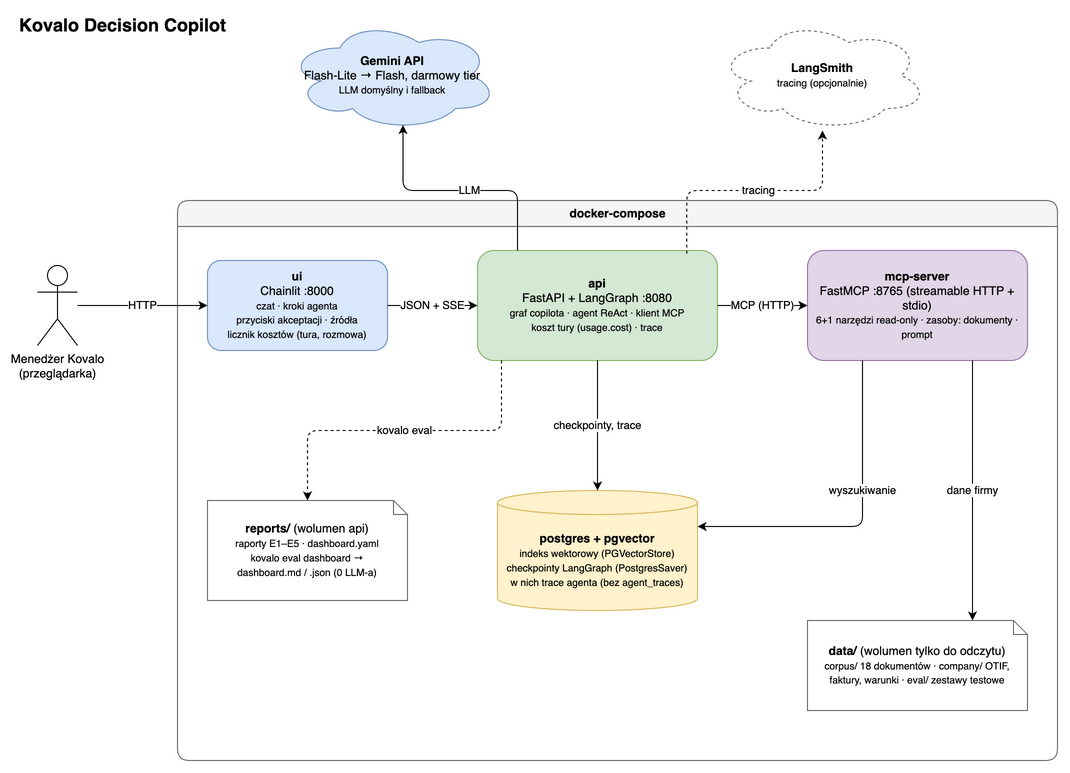
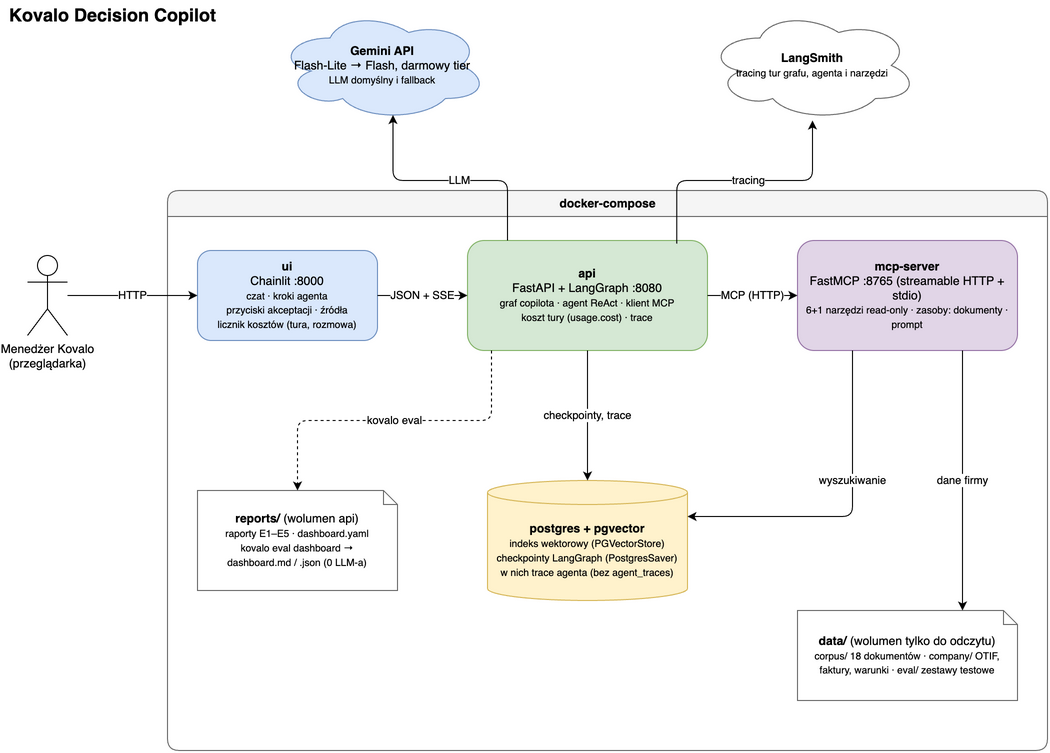
F6: koszt tury w USD modelu, LangSmith wymagany, prostszy scenariusz i diagram
- Panel „Koszt tury”: tylko cena użytego modelu jako ułamek dolara, bez darmowego tieru i cennika kursu
- LangSmith jako stały element (.env.example, README, docs, diagram)
- README: ogólna sekcja „Co potrafi”; scenariusz demo: prompt → ścieżka grafu
- Diagram: tylko strony 1–3

diff --git a/tests/unit/ui/test_render.py b/tests/unit/ui/test_render.py
@@ -379,8 +379,8 @@ def total_after(*usages):
 
 
 def test_render_usage_details():
-    """Przykład z kontraktu 6.4 jako lista do panelu „Koszt tury”: polskie liczby, odmiana,
-    centy z dwoma miejscami, suma rozmowy."""
+    """Lista do panelu „Koszt tury”: polskie liczby, odmiana, koszt faktycznie użytego modelu
+    jako ułamek dolara (bez darmowego tieru i cennika kursu), suma rozmowy."""
     from kovalo.ui.render import render_usage
 
     first = usage_view(
@@ -392,9 +392,8 @@ def test_render_usage_details():
     assert details == (
         "- **Tura:** 5 wywołań (gemini-3.5-flash-lite)\n"
         "- **Tokeny:** 9120 wejścia, 612 wyjścia\n"
-        "- **Koszt tury:** 0 USD w darmowym tierze; po cenach płatnych 0,43 centa (Gemini) / "
-        "0,96 centa (cennik kursu)\n"
-        "- **Rozmowa:** 2 tury, 0,71 / 1,52 centa"
+        "- **Koszt tury:** 0,004266 $\n"
+        "- **Rozmowa:** 2 tury, 0,0071 $"
     )
 
 
@@ -457,7 +456,15 @@ def test_render_usage_thousands_and_tiny_cost():
     usage = usage_view(input_tokens=1234567, output_tokens=89, ours=1e-8, reference=2e-8)
     text = squash(render_usage(usage, total_after(usage)))
     assert "1 234 567 wejścia" in text and "89 wyjścia" in text
-    assert "< 0,01 centa (Gemini)" in text and "< 0,01 centa (cennik kursu)" in text
+    assert "**Koszt tury:** < 0,000001 $" in text and "**Rozmowa:** 1 tura, < 0,000001 $" in text
+
+
+def test_render_usage_dollar_fraction_format():
+    from kovalo.ui.render import render_usage
+
+    for ours, shown in ((0.0034, "0,0034 $"), (0.12, "0,12 $"), (1.5, "1,5 $"), (0.0, "0 $")):
+        usage = usage_view(ours=ours)
+        assert f"**Koszt tury:** {shown}" in squash(render_usage(usage, total_after(usage)))
 
 
 def test_render_usage_unpriced_and_missing_cost():
@@ -470,14 +477,14 @@ def test_render_usage_unpriced_and_missing_cost():
     assert total.partial is True
     text = squash(render_usage(unpriced, total))
     assert "brak ceny dla model-x" in text
-    assert "0,96 centa (cennik kursu)" in text, "cennik kursu zawsze znany"
+    assert "cennik kursu" not in text and "darmow" not in text
     assert "(część tur bez ceny)" in text
 
     no_cost = usage_view(cost=False)
     total = add_usage(total_after(), no_cost)
     text = squash(render_usage(no_cost, total))
     assert text.startswith("- **Tura:** 5 wywołań")
-    assert "Koszt" not in text and "centa" not in text and "USD" not in text
+    assert "Koszt" not in text and "$" not in text
 
 
 def test_add_usage_accumulates():

diff --git a/src/kovalo/ui/render.py b/src/kovalo/ui/render.py
@@ -336,16 +336,18 @@ def _plural(count: int, one: str, few: str, many: str) -> str:
     return many
 
 
-_CENT_STEP = Decimal("0.01")
+_USD_STEP = Decimal("0.000001")
 
 
-def _cents(usd: float) -> str:
-    """USD → centy z dwoma miejscami po przecinku; dodatnia kwota poniżej 0,005 centa → „< 0,01”."""
-    cents = Decimal(str(usd)) * 100
-    rounded = cents.quantize(_CENT_STEP, rounding=ROUND_HALF_UP)
-    if cents > 0 and rounded == 0:
-        return "< 0,01"
-    return f"{rounded:.2f}".replace(".", ",")
+def _usd(usd: float) -> str:
+    """USD jako ułamek dolara: do 6 miejsc po przecinku, bez zer na końcu („0,003412 $”);
+    dodatnia kwota poniżej 0,0000005 $ → „< 0,000001 $”."""
+    value = Decimal(str(usd))
+    rounded = value.quantize(_USD_STEP, rounding=ROUND_HALF_UP)
+    if value > 0 and rounded == 0:
+        return "< 0,000001 $"
+    text = f"{rounded:f}".rstrip("0").rstrip(".")
+    return f"{text.replace('.', ',')} $"
 
 
 def _models(usage: UsageView) -> str:
@@ -371,19 +373,14 @@ def render_usage(usage: UsageView | None, total: UsageTotal) -> str | None:
         f"{number(usage.output_tokens)} wyjścia",
     ]
     cost = usage.cost
-    if cost is not None:
-        reference = f"{_cents(cost.reference_usd)} centa (cennik kursu)"
+    if cost is not None:  # tylko cena faktycznie użytego modelu, bez cennika kursu
         if cost.ours_usd is None:
             missing = ", ".join(cost.unpriced_models) or "nieznany model"
-            paid = f"po cenach płatnych: brak ceny dla {missing} / {reference}"
+            lines.append(f"- **Koszt tury:** brak ceny dla {missing}")
         else:
-            paid = f"po cenach płatnych {_cents(cost.ours_usd)} centa (Gemini) / {reference}"
-        lines.append(f"- **Koszt tury:** 0 USD w darmowym tierze; {paid}")
+            lines.append(f"- **Koszt tury:** {_usd(cost.ours_usd)}")
         turns = f"{number(total.turns)} {_plural(total.turns, 'tura', 'tury', 'tur')}"
-        conversation = (
-            f"- **Rozmowa:** {turns}, {_cents(total.ours_usd)} / "
-            f"{_cents(total.reference_usd)} centa"
-        )
+        conversation = f"- **Rozmowa:** {turns}, {_usd(total.ours_usd)}"
         if total.partial:
             conversation += " (część tur bez ceny)"
         lines.append(conversation)

diff --git a/tests/unit/ui/test_app.py b/tests/unit/ui/test_app.py
@@ -421,9 +421,9 @@ async def test_cost_panel_on_last_message(fake_cl, mock_stream):
     text1 = " ".join(cost1.content.split())
     assert text1.startswith("- **Tura:** 5 wywołań (gemini-3.5-flash-lite)")
     assert "9120 wejścia" in text1
-    assert "0,43 centa (Gemini) / 0,96 centa (cennik kursu)" in text1
+    assert "**Koszt tury:** 0,004266 $" in text1 and "cennik kursu" not in text1
     assert "**Rozmowa:** 1 tura" in text1
-    assert "**Rozmowa:** 2 tury, 0,85 / 1,92 centa" in " ".join(cost2.content.split())
+    assert "**Rozmowa:** 2 tury, 0,008532 $" in " ".join(cost2.content.split())
 
     total = fake_cl.session["usage_total"]
     assert (total.turns, total.calls, total.input_tokens, total.output_tokens) == (

diff --git a/docs/demo/scenario.md b/docs/demo/scenario.md
@@ -1,108 +1,47 @@
-# Scenariusz demo: pokaz aplikacji na żywo
+# Scenariusz demo
 
-Scenariusz pokazu aplikacji na żywo (około 5–7 minut, bez slajdów i bez nagrania w zapasie: decyzja użytkownika z 2026-11-07). Rdzeń to rozmowa **C1** z ewaluacji E5 ([data/eval/mini_project_5_conversations.yaml](../../data/eval/mini_project_5_conversations.yaml)): cztery tury, które w przebiegu na żywo z 2026-11-04 przeszły w 100% (ścieżka, status, pauzy, fakty). Kontrakt: [contracts/f6.md §10](../contracts/f6.md).
+Prompty do wklejenia w czat (http://localhost:8000) i ścieżka, którą każdy uruchamia w grafie copilota ([diagram, strona 2](../architecture/kovalo-architecture-2-graph.png)). Wszystkie pochodzą z rozmów ewaluacji E5 ([data/eval/mini_project_5_conversations.yaml](../../data/eval/mini_project_5_conversations.yaml)). Akceptacja jest symulowana: przyciski zastępują osoby zatwierdzające, nic nie trafia do CRM-u.
 
-Akceptacja jest symulowana: przyciski Zatwierdź / Odrzuć / Anuluj zastępują osoby zatwierdzające, nic nie trafia do CRM-u.
-
-## 1. Przygotowanie (dzień wcześniej i 10 minut przed)
-
-**Dzień wcześniej (próba):**
-1. `make up`, potem `make ingest` (jeśli baza była czyszczona). `curl http://localhost:8080/health` ma zwrócić `"status": "ok"`.
-2. Jedno przejście scenariusza z części 2 (około 10 wywołań Gemini). Sprawdź liczby z tabeli w części 3.
-
-**10 minut przed pokazem:**
-1. Docker Desktop działa, `make up` (przy aktualnych obrazach budowanie bierze warstwy z cache), `curl http://localhost:8080/health` → `ok`.
-2. Przeglądarka: okno około 1280×800, zoom 100%, jedna karta z http://localhost:8000, bez paska zakładek (macOS Chrome: Cmd+Shift+B), tryb gościa albo osobny profil.
-3. Nowa rozmowa: odśwież stronę (każde odświeżenie to nowy wątek i zerowa suma kosztu).
-4. W drugiej karcie (do pokazania na końcu): [reports/dashboard.md](../../reports/dashboard.md) na GitHubie albo w podglądzie Markdownu w edytorze (działa bez sieci).
-5. Zapas: w trzeciej karcie rozmowa z porannej próby (tury 1–2 z części 2, około 6 wywołań), **nieodświeżana**. Przy błędzie limitu albo sieci pokazujesz w niej kroki „(przez MCP)”, ścieżkę dowodową i linię kosztu.
-
-**Prywatność (sprawdź przed udostępnieniem ekranu):**
-- [ ] żadnego okna z `.env`, terminala z `env`/`printenv` ani AI Studio z kluczem w kadrze,
-- [ ] pasek zakładek i inne karty ukryte, powiadomienia wyciszone (Centrum sterowania → Skupienie),
-- [ ] udostępniasz tylko okno przeglądarki, nie cały ekran.
-
-## 2. Przebieg
-
-Każdą wiadomość wklejaj w pole czatu w całości i wysyłaj Enterem. Czekaj na koniec tury (zniknięcie wskaźnika pracy) przed następną wiadomością.
-
-### Tura 1: kara umowna przez MCP (około 1,5 min na żywo)
+## answer_documents
 
 ```
 Ile wynosi kara, którą Mleczna Dolina jest winna Kovalo za lipiec 2026 r.? Podaj kwotę w PLN.
 ```
 
-Co widać i co pokazać kursorem:
-- Kroki agenta pojawiają się na żywo, każdy z dopiskiem „(przez MCP)”: warunki umowy (`get_contract_terms`), OTIF (`get_supplier_otif`), wartość faktur (`get_invoice_value`), kalkulator kary (`calculate_otif_penalty`). Rozwiń jeden krok: argumenty (`SUP-114`, `2026-07`) i wynik z linią „Wywołanie MCP: …”.
-- Odpowiedź: **7296,00 PLN** (model może zapisać „7 296,00 PLN”; obie formy są poprawne).
-- Kliknij „Szczegóły: Ścieżka dowodowa”: panel boczny pokazuje, z którego narzędzia pochodzi każda liczba (OTIF 94,6% wobec celu 97%, 2 pełne punkty, 4% × 182 400,00 PLN).
-- Pod odpowiedzią linia kursywą: „Tura: N wywołań (gemini-3.5-flash-lite), … tokenów wejścia, … wyjścia. Koszt: 0 USD w darmowym tierze; po cenach płatnych … centa (Gemini) / … centa (cennik kursu). Rozmowa: 1 tura, …”.
+understand → answer_documents (agent, narzędzia przez MCP) → koniec tury. Odpowiedź: 7296,00 PLN.
 
-Co powiedzieć: liczby liczy kod (narzędzia i kalkulator kary), nie model; model tylko wybiera narzędzia i składa odpowiedź. Narzędzia działają w osobnym kontenerze `mcp-server`, ten sam serwer działa w Claude Code i MCP Inspector.
-
-### Tura 2: wniosek o rabat i pauza na akceptację (około 1 min)
-
-```
-Teraz prześlij do akceptacji rabat 14% na wodę niegazowaną dla Biedronki z marżą po rabacie 10%.
-```
-
-Co widać:
-- Odpowiedź bez kroków agenta: „Wniosek: …”, „Wymagana akceptacja: Dyrektor handlowy (symulacja)” i uzasadnienie z polityki `course-v1` (14% mieści się w przedziale > 12–20%, marża 10% nie dodaje CFO, bo próg to 9%).
-- Pauza z przyciskami **Zatwierdź**, **Odrzuć**, **Anuluj**; pod nią linia kosztu (1 wywołanie: rozpoznanie wiadomości).
-- Kliknij **Zatwierdź** → „Wniosek zatwierdzony (wersja 1): Dyrektor handlowy. To symulacja: nic nie trafia do CRM-u.” Ta tura nie ma linii kosztu (wznowienie pauzy nie wywołuje LLM-a).
-
-Co powiedzieć: kto zatwierdza, decyduje kod polityki, nie prompt; workflow LangGraph zatrzymuje się w `interrupt()`, a pauza jest w checkpoincie Postgresa, więc przetrwa restart `api`.
-
-### Tura 3: pytanie o dane w trakcie sprawy (około 1 min)
-
-```
-A jaki był OTIF dostawcy Aqua Kryształ w lipcu 2026 r.?
-```
-
-Co widać: jeden krok `get_supplier_otif (przez MCP)` (`SUP-207`), odpowiedź **95,1%**, ścieżka dowodowa, linia kosztu. Zatwierdzony wniosek się nie zmienia.
-
-### Tura 4: ponowne przesłanie bez zmian (około 30 s)
-
-```
-Prześlij jeszcze raz ten sam rabat dla Biedronki.
-```
-
-Co widać: „Już zatwierdzone (wersja 1), akceptacja: Dyrektor handlowy. Wniosek się nie zmienił, więc nie trzeba go akceptować ponownie. …”, **bez nowej pauzy**. Linia kosztu z sumą „Rozmowa: 4 tury, … / … centa” (kliknięcie Zatwierdź nie jest liczone jako tura z LLM-em).
-
-### Opcjonalnie, jeśli zostaje czas
-
-Pytanie o politykę bez składania wniosku (1 wywołanie, rozmowa C2 z E5):
+## answer_policy
 
 ```
 Kto musi zatwierdzić rabat 22% dla naszego klienta strategicznego Carrefour Express przy marży po rabacie 7%?
 ```
 
-Oczekiwane: „Rabat 22% (klient strategiczny, marża po rabacie 7%) zatwierdza: Dyrektor handlowy i CFO.” z uzasadnieniem i zdaniem „To tylko informacja: żaden wniosek nie został złożony.”
+understand → answer_policy → koniec tury. Odpowiedź: Dyrektor handlowy i CFO, bez składania wniosku.
 
-Na koniec (0 wywołań): karta z [reports/dashboard.md](../../reports/dashboard.md): wyniki E1–E5 wobec kursu, koszty przebiegów i zużycie darmowego limitu.
+## reply_other
 
-## 3. Oczekiwane wyniki i budżet
+```
+Dzięki!
+```
 
-| Tura | Oczekiwany wynik | Pauza | Wywołania Gemini (szacunek) |
-|---|---|---|---|
-| 1 | 7296,00 PLN; 4 kroki „(przez MCP)” | brak | ≈ 5 (rozpoznanie 1 + agent ≈ 4) |
-| 2 | Dyrektor handlowy; po Zatwierdź: zatwierdzony (wersja 1) | Dyrektor handlowy | 1 (wznowienie: 0) |
-| 3 | 95,1% | brak | ≈ 3 (rozpoznanie 1 + agent ≈ 2) |
-| 4 | „Już zatwierdzone”, bez pauzy | brak | 1 |
-| opcjonalnie | Dyrektor handlowy i CFO | brak | 1 |
-| **Razem** | | | **≈ 10** (z pytaniem opcjonalnym ≈ 11) |
+understand → reply_other → koniec tury. Krótka odpowiedź z listą tego, co copilot potrafi.
 
-Budżet w dniu pokazu: poranna próba ≈ 6 (karta zapasowa) + pokaz ≈ 10–11, razem około 17 wywołań, czyli w limicie Flash-Lite. Model główny `gemini-3.5-flash-lite` (w F4–F5 około 50 wywołań dziennie bez błędów 429); fallback `gemini-3.6-flash` ma tylko około 20 zapytań dziennie, więc nie rób w dniu pokazu dodatkowych prób.
+## update_request → clarify → decide → approve
 
-Dokładne liczby tokenów i centów w linii kosztu zależą od długości odpowiedzi modelu i nie są stałe; sprawdź tylko, że linia jest, że suma rośnie z każdą turą z LLM-em i że po kliknięciu Zatwierdź jej nie ma. Jeśli w linii pojawi się drugi model (`gemini-3.6-flash`), tura poszła przez fallback: to też jest poprawne.
+```
+Prześlij do akceptacji rabat 8% na chipsy dla Delikatesów Pod Lipami.
+```
 
-## 4. Plan B
+1. understand → update_request: wniosek bez marży, więc clarify (pauza z pytaniem o marżę po rabacie).
+2. Wpisz w czat `7` → decide: wymagana akceptacja Regionalnego kierownika sprzedaży i CFO.
+3. approve: pauza na pierwszą rolę → **Zatwierdź**, potem pauza na drugą rolę → **Zatwierdź**. Status: zatwierdzony.
 
-| Sytuacja | Co zrobić |
-|---|---|
-| Pojedynczy błąd 429 albo przeciążenie modelu głównego | Nic nie rób: aplikacja sama przełącza się na model zapasowy `gemini-3.6-flash` (w linii kosztu pojawi się drugi model). To dobry moment, żeby pokazać fallback. |
-| Odpowiedź „Nie udało się odpowiedzieć na to pytanie…” albo długie czekanie (429 na obu modelach, limit dzienny) | Odczekaj około minuty i wyślij wiadomość jeszcze raz, ale tylko raz (każda próba zużywa limit). Jeśli znowu błąd: przejdź do karty zapasowej z porannej rozmowy i omów kroki, ścieżkę dowodową i linię kosztu na niej. Tury 2 i 4 (wniosek, „Już zatwierdzone”) wymagają tylko jednego wywołania, więc zwykle przechodzą nawet przy prawie wyczerpanym limicie. |
-| Brak sieci | Karta zapasowa (już wyrenderowana rozmowa), dashboard w podglądzie Markdownu i README z lokalnego klona. Kliknięcie Zatwierdź na pauzie nie wywołuje LLM-a, więc wznowienie pauzy działa bez sieci. Ścieżkę dowodową P1 z zapisanego przebiegu E4 wypisuje też `uv run kovalo show-trace P1` (0 wywołań; wymaga lokalnych JSON-ów raportów w `reports/mp4/`). |
-| `/health` = `degraded` (brak klucza albo indeksu) | Brak klucza: uzupełnij `GOOGLE_API_KEY` w `.env`, potem `make down` i `make up`. Brak indeksu: `make ingest`. |
-| Odpowiedź z inną kwotą niż 7296,00 PLN lub 95,1% | Rozwiń ścieżkę dowodową i kroki: liczby z narzędzi są deterministyczne, a różnica byłaby w składaniu odpowiedzi; zgłoś po pokazie, nie poprawiaj na żywo. |
-| „Poprzednia odpowiedź nie została dokończona…” | Po restarcie `api` w trakcie tury: serwis zamknął przerwaną turę, wyślij wiadomość jeszcze raz. |
+## update_request → decide (już zatwierdzone)
+
+W tej samej rozmowie, po zatwierdzeniu:
+
+```
+Prześlij jeszcze raz ten sam rabat dla Delikatesów Pod Lipami.
+```
+
+understand → update_request → decide: wszystkie role już zatwierdziły, więc „Już zatwierdzone”, bez nowej pauzy.

diff --git a/docs/03-architecture.md b/docs/03-architecture.md
@@ -1,6 +1,6 @@
 # 03. Architektura
 
-Diagramy: [`architecture/kovalo-architecture.drawio`](architecture/kovalo-architecture.drawio). Plik ma osiem stron: kontenery, graf copilota, indeksowanie i wyszukiwanie, odpowiedź ze źródłami i ewaluacja E2, workflow F3 (API, UI, checkpointy, E3), agent F4 (narzędzia, trace, SSE, E4), MCP i końcowy asystent F5 (serwer, klient, E5), koszty, dashboard i przerwana tura F6. Eksporty PNG (z osadzonym XML-em, edytowalne w draw.io) leżą obok pliku.
+Diagramy: [`architecture/kovalo-architecture.drawio`](architecture/kovalo-architecture.drawio). Plik ma trzy strony: kontenery, graf copilota, indeksowanie i wyszukiwanie. Eksporty PNG (z osadzonym XML-em, edytowalne w draw.io) leżą obok pliku.
 
 ![Kontenery](architecture/kovalo-architecture-1-containers.png)
 
@@ -15,7 +15,7 @@ Diagramy: [`architecture/kovalo-architecture.drawio`](architecture/kovalo-archit
 
 Indeksowanie, ewaluacja i dashboard to **nie osobne usługi**, tylko polecenia CLI (`kovalo ingest`, `kovalo eval`) uruchamiane jednorazowo w obrazie `api`: `make ingest` = `docker compose run --rm api kovalo ingest` (korpus → chunki MP1 i chunki z kontekstem → embeddingi → podmiana tabel `kovalo_mp1` i `kovalo_ctx`), `make eval STAGE=e2` = `docker compose run --rm api kovalo eval e2` (raport w `reports/`, montowanym jako wolumen). Dashboard (`make dashboard` = `uv run kovalo eval dashboard`, w obrazie `make eval STAGE=dashboard`) czyta raporty i `reports/dashboard.yaml` i pisze `reports/dashboard.md` i `.json`, bez LLM-a i bez sieci.
 
-Zewnętrznie: **Gemini API** (domyślny LLM, darmowy klucz z Google AI Studio), opcjonalnie **LangSmith** (tracing, darmowy plan dla jednej osoby).
+Zewnętrznie: **Gemini API** (domyślny LLM, darmowy klucz z Google AI Studio), **LangSmith** (tracing każdej tury: węzły grafu, wywołania LLM-a, narzędzia; darmowy plan dla jednej osoby).
 
 Embeddingi liczymy **lokalnie** (fastembed, model ONNX wbudowany w obraz), więc ani indeksowanie, ani `mcp-server` nie potrzebują klucza.
 
@@ -91,15 +91,12 @@ START → understand ─┬─ document_question ─> answer_documents   (E3: RA
 - **Serwis od F6:** `TurnResult.usage` (z kanału `calls` tury) ma podział na faktyczne modele (`by_model`) i koszt (`cost`: `ours_usd` po cenach `cost.our_prices_per_1m_tokens`, `reference_usd` po cenach `cost.reference_model`), liczony przez `cost/usage.py` przy składaniu wyniku; koszt nie trafia do stanu grafu. Przerwana tura (ostatni checkpoint z `next != ()` bez pauzy, np. po zabiciu `api` w trakcie węzła) jest zamykana leniwie przy następnej wiadomości, pod blokadą wątku: `update_state(..., as_node="reply_other")` ze statusem `error` (`turn_interrupted`) i komunikatem o niedokończonej odpowiedzi, potem nowa wiadomość biegnie normalnie; przerwanej tury nie dokańczamy ([ADR-0015](adr/0015-polish-f6.md), [contracts/f6.md §7](contracts/f6.md)). Warunek: jeden proces `api`.
 - **Serwis od F4:** `start_message` / `start_resume` zwracają `TurnStream` (tura w wątku roboczym, zdarzenia z `stream_mode=["custom", "updates"]`), `send_message` / `resume` czytają go do `final`; `get_trace` czyta ostatnią kopertę `agent_trace` z historii stanu. Błędy połączenia z Postgresem → `CheckpointerUnavailableError` (API: 503).
 
-![Workflow F3](architecture/kovalo-architecture-5-workflow.png)
 
 **Agent w węźle `answer_documents` (F4).** W aplikacji (`workflow.answerer: agent`, `understand_prompt: assistant_understand_system`) węzeł uruchamia `AgentRunner`: `create_agent` z promptem `agent_system`, 7 narzędziami tylko do odczytu, budżetem kursu (24 kroki, 180 s), fallbackiem tylko przy błędach dostępności, `checkpointer=False`, w pustym `contextvars.Context`. Wywołania narzędzi idą do strumienia przez `get_stream_writer`; wynik to odpowiedź agenta (albo przeprosiny), status i trace w `record`. `check_termination_condition` liczy warunek CON-101 w kodzie, a jej odczyt OTIF trafia do trace jako zdarzenie składowe `get_supplier_otif`. E3 dalej buduje graf z RAG i `understand_system` ([ADR-0011](adr/0011-agent-tools-f4.md)).
 
-![Agent F4](architecture/kovalo-architecture-6-agent.png)
 
 **Agent przez MCP i końcowy asystent (F5).** Z `tools.source: mcp` `LazyAgentRunner` przy pierwszym pytaniu otwiera `McpToolSource` (`tools.mcp_transport: http` → `services.mcp_url`; `stdio` → podproces `kovalo-mcp`) i buduje tego samego agenta na narzędziach z `list_tools()`. Graf, węzły, serwis i koperta trace się nie zmieniają (ADR-0011 pkt 6). Każde wywołanie przechodzi przez `check_record` (surowy `structuredContent` wobec rekordu z `TOOL_SPECS`, zanim cokolwiek uzupełni wartości domyślne); błąd ma warstwę `tool / protocol / transport / validation`, a połączenie po błędzie transportu nie jest używane ponownie (następne wywołanie otwiera nowe). Model widzi przez MCP dokładnie ten sam rekord co przy narzędziu bezpośrednim; pochodzenie wywołania (`transport`, `invocation_id`) idzie w artefakcie `ToolMessage`, którego `StableUsageMiddleware` nie wysyła do modelu, więc klucze cache są te same co w F4. Agent dostaje callbacki węzła (run agenta pod turą grafu w LangSmith). Pytania o politykę i akceptacje nie używają MCP. Inni klienci (Claude Code przez `.mcp.json`, Inspector, Claude Desktop) uruchamiają własny proces `kovalo-mcp --search memory` przez stdio i widzą tylko narzędzia, zasoby i prompt, nie workflow akceptacji (FR-5.5). E5: [contracts/f5.md §10](contracts/f5.md), [ADR-0014](adr/0014-assistant-eval-e5.md).
 
-![MCP i asystent F5](architecture/kovalo-architecture-7-mcp.png)
 
 ## 4. Kontrakty
 
@@ -131,16 +128,14 @@ Wyszukiwanie (`knowledge.Retriever`): tryb `retrieval.mode` = `vector` (cosine, 
 
 ## 5a. Odpowiedź ze źródłami i E2
 
-![RAG i E2](architecture/kovalo-architecture-4-rag.png)
 
 `rag.answer_question`: pytanie → `Retriever` (top 3) → `build_prompt(answer_system)` → `get_structured_model(Answer)` (Gemini z fallbackiem, `include_raw=True`) → `RunRecord` (kontekst, prompt, `Answer` albo błąd, tokeny, model). Ewaluacja E2 ocenia rekord bez LLM-a (`score_record`: dowody, fakty, odwołania, odmowy) i sędzią (`judge_record`, prompt `judge_system`), a odpowiedzi modeli trzyma w cache na dysku (`paths.llm_cache_dir`), więc powtórny przebieg nie zużywa limitu ([contracts/f2.md §8](contracts/f2.md)).
 
 ## 6. Obserwowalność i koszty
 
-![Koszty, dashboard i przerwana tura F6](architecture/kovalo-architecture-8-costs.png)
 
 - Licznik tokenów i kosztów per tura z `usage_metadata` (kanał `calls` stanu tury → `group_by_model` → `price_usage` → `TurnResult.usage.cost`). Ceny z sekcji `cost` w `config.yaml`: `our_prices_per_1m_tokens` dla faktycznego modelu (płatny tier Gemini, NASZE) i `prices_per_1m_tokens[reference_model]` (cennik kursu, PINNED); ta sama funkcja `tokens_cost` co w raportach E2–E5. Nieznany model daje „brak ceny”, nie zgadywanie; free tier = 0 USD. UI pokazuje linię kosztu na końcu ostatniej wiadomości tury i sumę rozmowy z sesji Chainlita ([ADR-0015](adr/0015-polish-f6.md)).
 - Dashboard ewaluacji: `reports/dashboard.md` i `.json` z JSON-ów raportów E1–E5 (gdy są), poprzedniego `dashboard.json` i ręcznych danych w `reports/dashboard.yaml` (liczby oryginalnych przebiegów na żywo, zużycie limitu na etap, znane ograniczenia); wynik deterministyczny, `--check` w CI ([contracts/f6.md §8](contracts/f6.md)).
 - Trace agenta w checkpointach Postgresa (kanał `record`, koperta `agent_trace` v1 z MP5; bez osobnej tabeli `agent_traces`: decyzja ostateczna, ADR-0011 pkt 7 i ADR-0015; dashboard czyta raporty ewaluacji, nie tury produkcyjne), widoczny w UI (kroki `cl.Step` na żywo, „Ścieżka dowodowa”) i przez `GET /threads/{id}/trace`.
-- Opcjonalnie LangSmith (`LANGSMITH_TRACING=true`); od F5 run agenta jest zagnieżdżony pod turą grafu (callbacki węzła, R1-2 z F4).
+- LangSmith (`LANGSMITH_TRACING=true`, klucz w `.env`, projekt `kovalo-copilot`): każda tura to drzewo runów; od F5 run agenta jest zagnieżdżony pod turą grafu (callbacki węzła, R1-2 z F4).
 - Wywołania MCP: `invocation_id` w trace (koperta w checkpoincie) i w logu `mcp-server` (stderr, z czasem i statusem rekordu).

diff --git a/README.md b/README.md
@@ -6,38 +6,35 @@ To projekt zaliczeniowy z przedmiotu **Technologie Generatywne (TEG)**. Łączy 
 
 **Stos:** LangChain 1.x · LangGraph 1.x · MCP (FastMCP) · Gemini Flash-Lite (darmowy tier) · fastembed · Postgres + pgvector · FastAPI · Chainlit · Docker.
 
-Scenariusz pokazu aplikacji (cztery tury jednej rozmowy, około 5–7 minut): [docs/demo/scenario.md](docs/demo/scenario.md).
+Prompty do pokazu, po jednym na każdą ścieżkę grafu: [docs/demo/scenario.md](docs/demo/scenario.md).
 
-## Status
-
-Etapy **F0–F6 zrobione**: licznik kosztów w UI, zamknięcie przerwanej tury, dashboard ewaluacji i przegląd końcowy F6 są gotowe; zostaje pokaz aplikacji na żywo. Szczegóły i definicje ukończenia: [roadmapa](docs/07-roadmap.md).
+## Architektura
 
 ![Architektura](docs/architecture/kovalo-architecture-1-containers.png)
 
 ## Co potrafi
 
-Cztery scenariusze z demo, w jednej rozmowie:
-
-1. **Pytanie o dane z obliczeniem.** „Ile wynosi kara, którą Mleczna Dolina jest winna Kovalo za lipiec 2026 r.?” Agent wywołuje narzędzia przez serwer MCP (warunki umowy, OTIF, faktury, kalkulator kary; w UI kroki z dopiskiem „(przez MCP)”) i odpowiada: 7296,00 PLN. W panelu „Ścieżka dowodowa” widać, z którego narzędzia pochodzi każda liczba.
-2. **Wniosek o rabat z akceptacją.** „Prześlij do akceptacji rabat 14% na wodę niegazowaną dla Biedronki…” Polityka rabatowa (kod, nie prompt) wskazuje dyrektora handlowego, workflow zatrzymuje się na pauzie z przyciskami Zatwierdź / Odrzuć / Anuluj. Akceptacja jest symulowana: przyciski zastępują osoby zatwierdzające, nic nie trafia do CRM-u.
-3. **Pytanie w trakcie sprawy.** „A jaki był OTIF dostawcy Aqua Kryształ w lipcu 2026 r.?” → 95,1%; zatwierdzony wniosek się nie zmienia.
-4. **Ponowne przesłanie.** „Prześlij jeszcze raz ten sam rabat dla Biedronki.” → „Już zatwierdzone”, bez nowej pauzy.
-
-Poza tym: odpowiedzi z dokumentów z odwołaniami do źródeł (`[POL-001]`), pytania o politykę („kto zatwierdza rabat 22%…?”), dopytanie o brakującą marżę, a pod każdą turą z LLM-em linia z tokenami i kosztem tury oraz sumą rozmowy.
+- **Odpowiedzi z dokumentów firmy ze źródłami.** Umowy, polityki, notatki ze spotkań i raporty są zindeksowane w pgvector; odpowiedź cytuje dokumenty (`[POL-001]`), a gdy w nich czegoś nie ma, copilot to mówi zamiast zgadywać.
+- **Obliczenia na danych firmy.** Agent ReAct wywołuje narzędzia przez serwer MCP (warunki umów, OTIF, faktury, kary umowne, warunek rozwiązania umowy). Liczby pochodzą z narzędzi, nie z modelu, a panel „Ścieżka dowodowa” pokazuje, skąd jest każda z nich.
+- **Polityka rabatowa i workflow akceptacji.** Reguły polityki są w kodzie, nie w prompcie. Wniosek o rabat przechodzi przez sprawdzenie polityki, dopytanie o brakujące dane i pauzę na decyzję (Zatwierdź / Odrzuć / Anuluj); stan sprawy przeżywa restart dzięki checkpointom w Postgresie. Akceptacja jest symulowana: przyciski zastępują osoby zatwierdzające, nic nie trafia do CRM-u.
+- **Pytania w trakcie sprawy.** W trakcie sprawy można zadać inne pytanie bez utraty wniosku; ponowne przesłanie tego samego wniosku nie tworzy nowej pauzy.
+- **Koszty i obserwowalność.** Przy każdej turze z LLM-em panel „Koszt tury” (tokeny, koszt tury i suma rozmowy); każda tura w LangSmith jako drzewo: węzły grafu, wywołania Gemini, narzędzia MCP.
+- **Narzędzia dla innych klientów MCP.** Ten sam serwer MCP (narzędzia, zasoby, prompt) działa z MCP Inspector, Claude Code i Claude Desktop.
 
 ## Szybki start
 
-**Wymagania:** Docker Desktop z Compose v2 (około 6 GB miejsca na obrazy; obraz `api` zawiera model embeddingów), `make`, darmowy klucz Gemini z [Google AI Studio](https://aistudio.google.com/apikey). Do testów, dashboardu i serwera MCP na hoście: Python 3.12 i [uv](https://docs.astral.sh/uv/).
+**Wymagania:** Docker Desktop z Compose v2 (około 6 GB miejsca na obrazy; obraz `api` zawiera model embeddingów), `make`, darmowy klucz Gemini z [Google AI Studio](https://aistudio.google.com/apikey) i darmowy klucz [LangSmith](https://smith.langchain.com) (Settings → API Keys). Do testów, dashboardu i serwera MCP na hoście: Python 3.12 i [uv](https://docs.astral.sh/uv/).
 
 ```bash
-cp .env.example .env      # wpisz swój klucz w GOOGLE_API_KEY (reszta pól jest opcjonalna)
+cp .env.example .env      # wpisz klucze: GOOGLE_API_KEY i LANGSMITH_API_KEY
 make up                   # docker compose up -d --build: postgres, mcp-server, api, ui
 make ingest               # pierwsze indeksowanie korpusu (jednorazowo, bez klucza)
 open http://localhost:8000
 ```
 
 - Pierwsze `make up` buduje obrazy i pobiera model `intfloat/multilingual-e5-large` (około 2,2 GB), więc trwa kilka do kilkunastu minut zależnie od łącza; kolejne starty to kilkadziesiąt sekund.
-- Klucza nie wpisuj nigdzie poza `.env` (plik jest w `.gitignore`). Bez klucza aplikacja wstaje, ale `/health` zgłasza `degraded`, a pytania kończą się błędem.
+- Kluczy nie wpisuj nigdzie poza `.env` (plik jest w `.gitignore`). Bez klucza Gemini aplikacja wstaje, ale `/health` zgłasza `degraded`, a pytania kończą się błędem.
+- Trace'y: [smith.langchain.com](https://smith.langchain.com) → Tracing → projekt `kovalo-copilot` (pojawia się po pierwszej turze). Konto w regionie EU wymaga w `.env` także `LANGSMITH_ENDPOINT=https://eu.api.smith.langchain.com`.
 - Porty (tylko `127.0.0.1`): UI `8000`, API `8080` (zmiana: `API_PORT=8081 make up` albo wpis w `.env`), serwer MCP `8765`, Postgres `5432`. Stan usług: `curl http://localhost:8080/health`.
 - Sprawdzenie klucza jednym wywołaniem: `make first-call`. Logi: `make logs` (jednej usługi: `make logs S=api`). Zatrzymanie: `make down`; wyczyszczenie bazy: `make db-reset`.
 

diff --git a/docs/adr/0015-polish-f6.md b/docs/adr/0015-polish-f6.md
@@ -50,7 +50,7 @@ Przegląd R1 z 2026-11-07 ([contracts/f6.md §15](../contracts/f6.md)):
 ### Aktualizacja po klikaniu UI (2026-11-07)
 
 Zmiany w UI po przeglądzie R1, na prośbę użytkownika (bez zmian w API i kontrakcie odpowiedzi):
-- **Koszt tury jako panel boczny** zamiast linii na końcu wiadomości: element `cl.Text(display="side")` „Koszt tury” (numerowany w rozmowie: „Koszt tury 2”…) obok „Ścieżki dowodowej”, link w linii „Szczegóły: …” ostatniej wiadomości tury. Treść to lista: tura (modele), tokeny, koszt tury (0 USD w darmowym tierze, ceny płatne Gemini / cennik kursu), suma rozmowy.
+- **Koszt tury jako panel boczny** zamiast linii na końcu wiadomości: element `cl.Text(display="side")` „Koszt tury” (numerowany w rozmowie: „Koszt tury 2”…) obok „Ścieżki dowodowej”, link w linii „Szczegóły: …” ostatniej wiadomości tury. Treść to lista: tura (modele), tokeny, koszt tury i suma rozmowy. Koszt tylko po cenie faktycznie użytego modelu (`usage.cost.ours_usd`), jako ułamek dolara do 6 miejsc („0,003412 $”); bez dopisku o darmowym tierze i bez cennika kursu (`reference_usd` zostaje w API i raportach).
 - **Panel boczny tylko po kliknięciu:** Chainlit 2.12 otwiera panel przy każdej zmianie elementów bocznych i nie ma na to opcji w configu; `public/kovalo.js` zamyka panel, gdy otworzył się bez kliknięcia linku `a.element-link` w ostatnich 1,5 s.
 - **Wygląd:** `public/kovalo.css` zastępuje biały kursor ładowania trzema kropkami w kolorze motywu; kroki narzędzi mają ikony lucide (`metadata.icon`: `file-search`, `database`, `calculator`, domyślnie `wrench`) zamiast pustych szarych awatarów.
 - **Tylko tekst:** wysyłanie plików wyłączone (`features.spontaneous_file_upload`); wiadomość bez tekstu dostaje podpowiedź `NO_TEXT` zamiast angielskiego błędu 422 z API.

diff --git a/docs/04-tech-stack.md b/docs/04-tech-stack.md
@@ -51,7 +51,7 @@ embeddings:
 
 ```
 GOOGLE_API_KEY=        # https://aistudio.google.com/apikey (darmowy)
-LANGSMITH_API_KEY=     # opcjonalny tracing
+LANGSMITH_API_KEY=     # tracing (https://smith.langchain.com, darmowy plan)
 OPENAI_API_KEY=        # opcjonalny tryb zgodny z kursem
 ```
 
